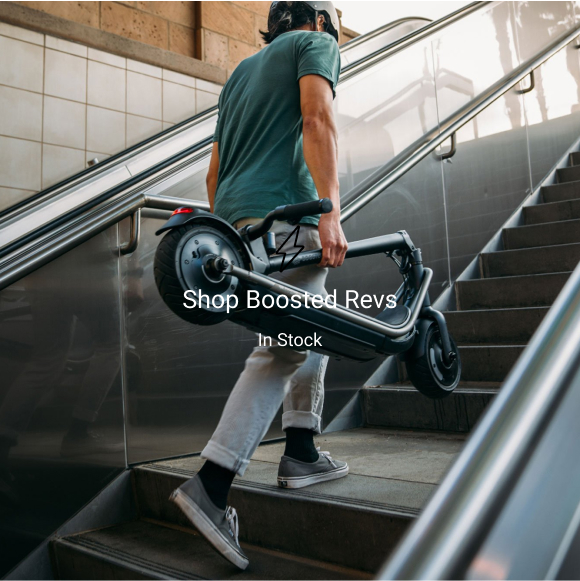
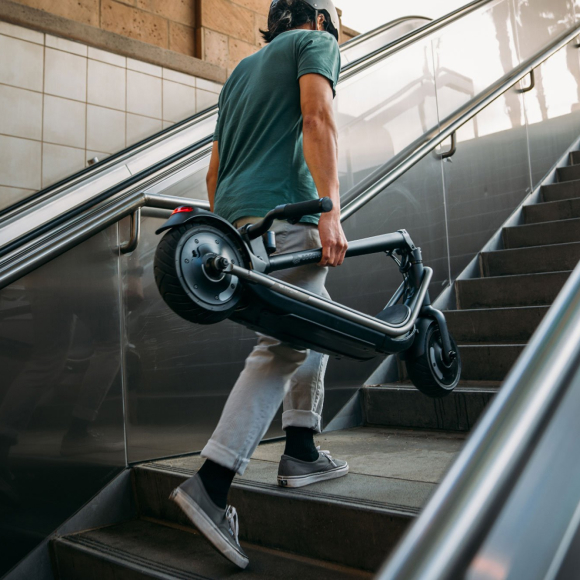
начальный этап

diff --git a/css/style.css b/css/style.css
@@ -4,14 +4,273 @@
     box-sizing: border-box;
 }
 
-body {
-    background: aqua;
+/* Container */
+.container {
+    width: 100%;
+    max-width: 1440px;
+    margin: 0 auto;
 }
 
-h1 {
-    font-size: 30px;
+
+/* HEADER */
+/* header_top */
+.header_top {
+    height: 20px;
+    background-color: #000000;
+    color: white;
+    
 }
 
-p {
-    font-style: italic;
+.header_top_text {
+    font-family:-apple-system, BlinkMacSystemFont, 'Segoe UI', Roboto, Oxygen, Ubuntu, Cantarell, 'Open Sans', 'Helvetica Neue', sans-serif;
+    font-style: normal;
+    font-weight: normal;
+    font-size: 12px;
+    padding-top: 2.5px;
+    padding-bottom: 2.5px;
+    text-align: center;
+    line-height: 15px;
+    letter-spacing: 2px;
+}
+
+
+/* header_bottom */
+
+.header_bottom {
+
+    height: 60px;
+    background: #E5E5E5;
+    align-content: center;
+}
+
+
+.nav {
+margin: o auto;
+}
+
+
+
+.link {
+color: #000000;
+margin-left: 0;
+float: left;
+text-decoration: none;
+transition: color .1s linear;
+}
+
+.link:hover {
+    color: #f10000;
+}
+
+.link:hover:after,.nav_link.active:after
+ {
+    opacity: 1;
+}
+
+.link:hover:after {
+    opacity: 1;
+}
+
+
+
+/* WELCOME */
+
+.welcome_inner {
+    background-color: #9c5f5f;
+    height: 810px;
+}
+
+.welcome_title {
+display: block;
+position: relative;
+width: 511px;
+height: 51px;
+left: calc(50% - 511px/2);
+top: 8px;
+
+font-family: Roboto;
+font-style: normal;
+font-weight: normal;
+font-size: 44px;
+line-height: 51px;
+
+text-align: center;
+
+color: #ffffff;
+}
+
+.welcome_subtitle {
+position: relative;
+width: 537px;
+height: 19px;
+left: calc(50% - 537px/2);
+top: 73px;
+
+font-family: Roboto;
+font-style: normal;
+font-weight: normal;
+font-size: 15px;
+line-height: 19px;
+
+text-align: center;
+letter-spacing: 1px;
+
+color: #ffffff;
+}
+
+.btn {
+    display: flex;
+    position: relative;
+    width: 537px;
+    left: calc(50% - 537px/2);
+    top: 73px;
+
+}
+
+.button {
+width: 107px;
+height: 23px;
+left: calc(50% - 107px/2);
+top: calc(50% - 23px/2);
+
+font-family: Roboto;
+font-style: normal;
+font-weight: normal;
+font-size: 15px;
+line-height: 22px;
+
+text-align: center;
+
+background-color: #FF4A32;
+}
+
+
+/* MANUFACTURERS */
+
+.manufacturers {
+    display: flex;
+    flex-direction: row; 
+    background-color: #000000;
+    width: 100%;
+    max-width: 1440px;
+    height: 83px;
+    margin: 0 auto;
+    justify-content: space-between;
+    display: flex;
+    align-items: center;
+}
+
+.logo {
+    margin: 0;
+    padding: 0px;
+}
+
+
+/* LOOKING */
+
+.looking_title {
+display: block;
+position: relative;
+width: 663px;
+height: 36px;
+left: calc(50% - 663px/2 + 0.5px);
+top: 21.64px;
+
+font-family: Roboto;
+font-style: normal;
+font-weight: normal;
+font-size: 32px;
+line-height: 36px;
+
+text-align: center;
+
+color: #000000;
+margin-bottom: 17px;
+}
+
+.looking_subtitle {
+display: block;
+position: relative;
+width: 685px;
+height: 57px;
+left: calc(50% - 685px/2 - 0.5px);
+top: 74.64px;
+
+font-family: Roboto;
+font-style: normal;
+font-weight: normal;
+font-size: 15px;
+line-height: 19px;
+
+text-align: center;
+
+color: #000000;
+}
+
+
+
+/* CARD */
+
+.card {
+    margin: 80px -15px 0;
+    display: flex;
+    flex-wrap: wrap;
+    justify-content: space-between;
+    width: 100%;
+    vertical-align: top;
+}
+
+.card_item {
+
+    padding: 0 15px;      
+}
+
+.card_inner {
+    position: relative; 
+    background-color: #95e1d3;
+}
+
+.card_inner:hover .card_img {
+    transform: translate3d(-10px, -10px, 0);
+}
+
+.card_inner:hover .card_img img {
+    opacity: 0.1;
+}
+
+.card_inner:hover .card_text {
+    opacity: 1;
+}
+
+.card_img {
+   
+    background: linear-gradient(to bottom, #f38181 , #fce38a);
+    transition: transform .2s linear;
+}
+
+.card_img img {
+    display: block;
+    min-width: 100%;
+    height: auto;
+    transition: opacity .1s  linear;
+    height: 300px;
+    width: 380px;
+    object-fit: cover;
+    
+}
+
+.card_text {
+    width: 100%;
+    opacity: 0;
+    font-size: 18px;
+    color: white;
+    text-transform: uppercase;
+    font-weight: 700;
+    text-align: center;
+    position: absolute;
+    top: 50%;
+   
+    z-index: 2px;
+    transform: translate3d(0, -50%, 0);
+    transition: opacity .15s linear;
 }

diff --git a/index.html b/index.html
@@ -1,16 +1,94 @@
-<!doctype html>
+<!DOCTYPE html>
 <html lang="en">
 <head>
     <meta charset="UTF-8">
-    <meta name="viewport"
-          content="width=device-width, user-scalable=no, initial-scale=1.0, maximum-scale=1.0, minimum-scale=1.0">
-    <meta http-equiv="X-UA-Compatible" content="ie=edge">
-    <link rel="stylesheet" href="css/style.css">
-    <title>Document</title>
-</head>
-<body>
-    <h1>hello world</h1>
+    <meta name="viewport" content="width=devece-width, initial-scale=1">
+    <link rel="stylesheet" href="/css/style.css">
+    <link rel="stylesheet" href="/css/normazile.css">
+    <link rel="preconnect" href="https://fonts.googleapis.com">
+<link rel="preconnect" href="https://fonts.gstatic.com" crossorigin>
+<link href="https://fonts.googleapis.com/css2?family=Kaushan+Script&family=Montserrat:300i;wght@400;700&family=Roboto&display=swap" rel="stylesheet">
+<script src="https://kit.fontawesome.com/0cdb73322e.js" crossorigin="anonymous"></script>
 
-    <p>Zaloopa</p>
+
+    <title>BoostedUSA</title>
+</head>
+
+
+<body>
+    <header>
+        <div class="container">
+            <div class="header_top">
+                <div class="header_top_text">Financing option available at checkout.</div>
+            </div>
+            
+            <div class="header_bottom">
+                <nav class="nav">
+                    <a class="link" href="#">
+                        <img src="/img/Logo.png" alt="">
+                    </a>
+                    <a class="link" href="#">Electric Skateboards</a>
+                    <a class="link" href="#">Electric Scooters</a>
+                    <a class="link" href="#">Accessories</a>
+                    <a class="link" href="#">Gift Card</a>
+                    <a class="link" href="#">More Info</a>
+                    <a class="link" href="#"><i class="far fa-user"></i></a>
+                    <a class="link" href="#"><i class="fas fa-shopping-cart"></i></a>
+                </nav>
+            </div>
+        </div>
+    </header>
+
+
+<div class="welcome">
+    <div class="container">
+        <div class="welcome_inner">
+            <div class="welcome_title">Welcome to Boosted USA</div>
+            <div class="welcome_subtitle">The Holy Grail of Electric Skateboards and One REVolutionary Scooter</div>
+            <div class="btn">
+                <button type="button" class="btn btn-outline-danger">Danger</button>
+                <button type="button" class="btn btn-outline-danger">Danger</button>
+            </div>
+        </div>
+    </div>
+</div>
+
+<div class="manufacturers">
+    <div class="logo"> <img src="/img/Electrek.png" alt="none"></div>
+    <div class="logo"><img src="/img/TechCrunch.png" alt="none"></div>
+    <div class="logo"><img src="/img/popularMEchanics.png" alt="none"></div>
+    <div class="logo"><img src="/img/Wired.png" alt="none"></div>
+</div>
+
+<div class="looking">
+    <div class="looking_title">Looking for Boosted Boards, or Boosted Revs?
+    </div>
+    <div class="looking_subtitle">Boosted USA acquired all of the remaining inventory directly from Boosted.  This means we have the electric skateboards and scooter you all love and have been looking for.  Get your hands on these highly sought after products while supplies last.
+    </div>
+</div>
+
+<div class="card">
+    <div class="card_item"> 
+        <div class="card_inner">
+            <div class="card_img">
+                <img src="/img/boards.jpg" alt="НЕТУ"> 
+            </div>
+            <div class="card_logo"><img src="/img/Vectormolnia.png" alt=""></div>
+                <div class="card_title">Shop Boosted Boards</div>
+                <div class="card_subtitle">In Stock</div>
+        </div>
+    </div>
+
+    <div class="card_item">
+        <div class="card_inner">
+                <div class="card_img"><img src="/img/Revs.jpg" alt="none"></div>
+                <div class="card_logo"><img src="/img/Vectormolnia.png" alt=""></div>
+                <div class="card_title">Shop Boosted Revs</div>
+                <div class="card_subtitle">In Stock</div>
+        </div>
+    </div>    
+
+</div>
+
 </body>
 </html> 
